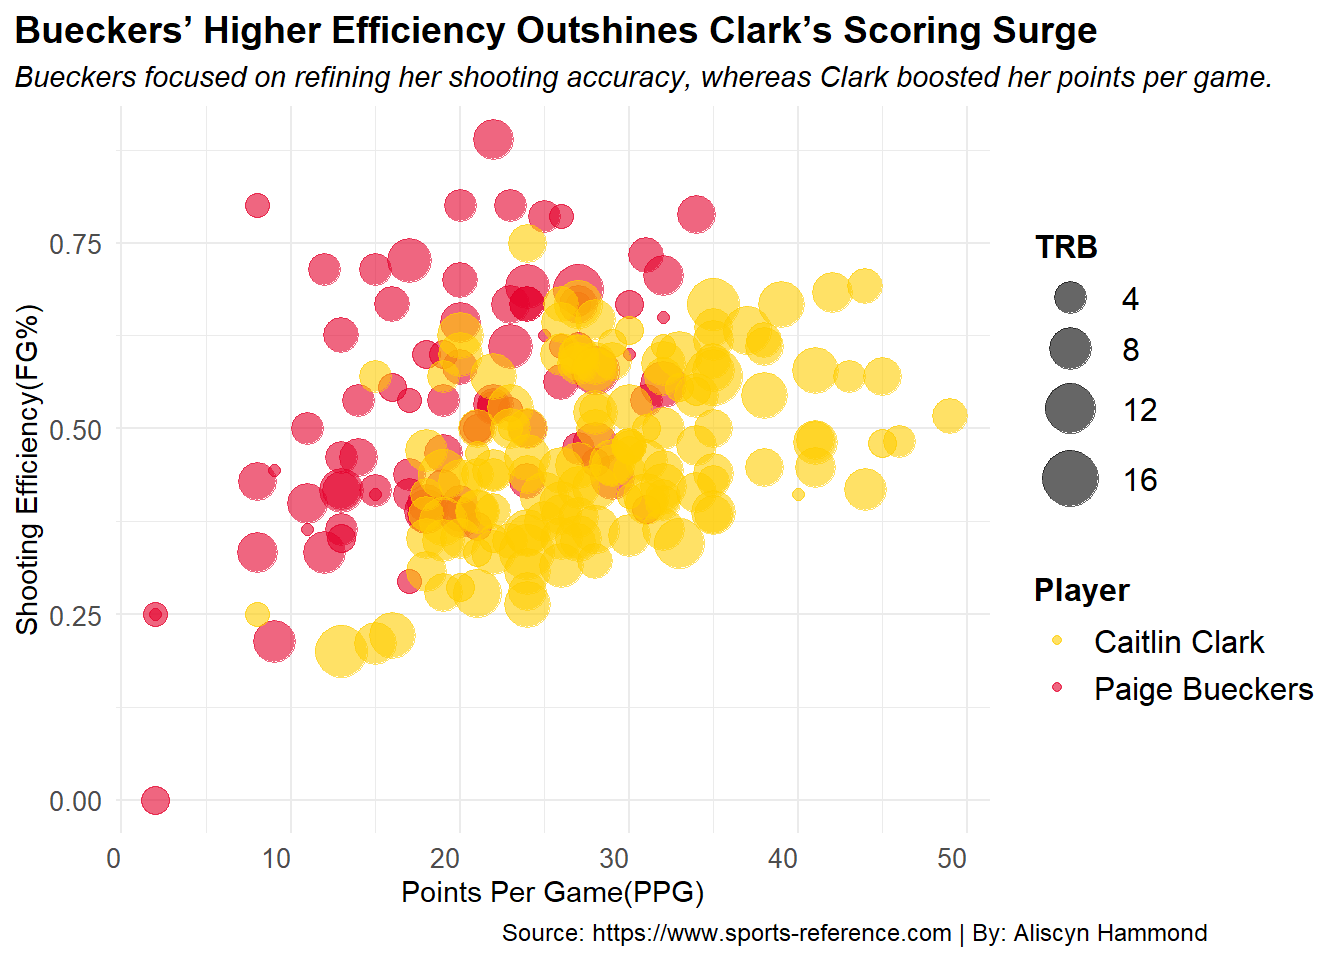
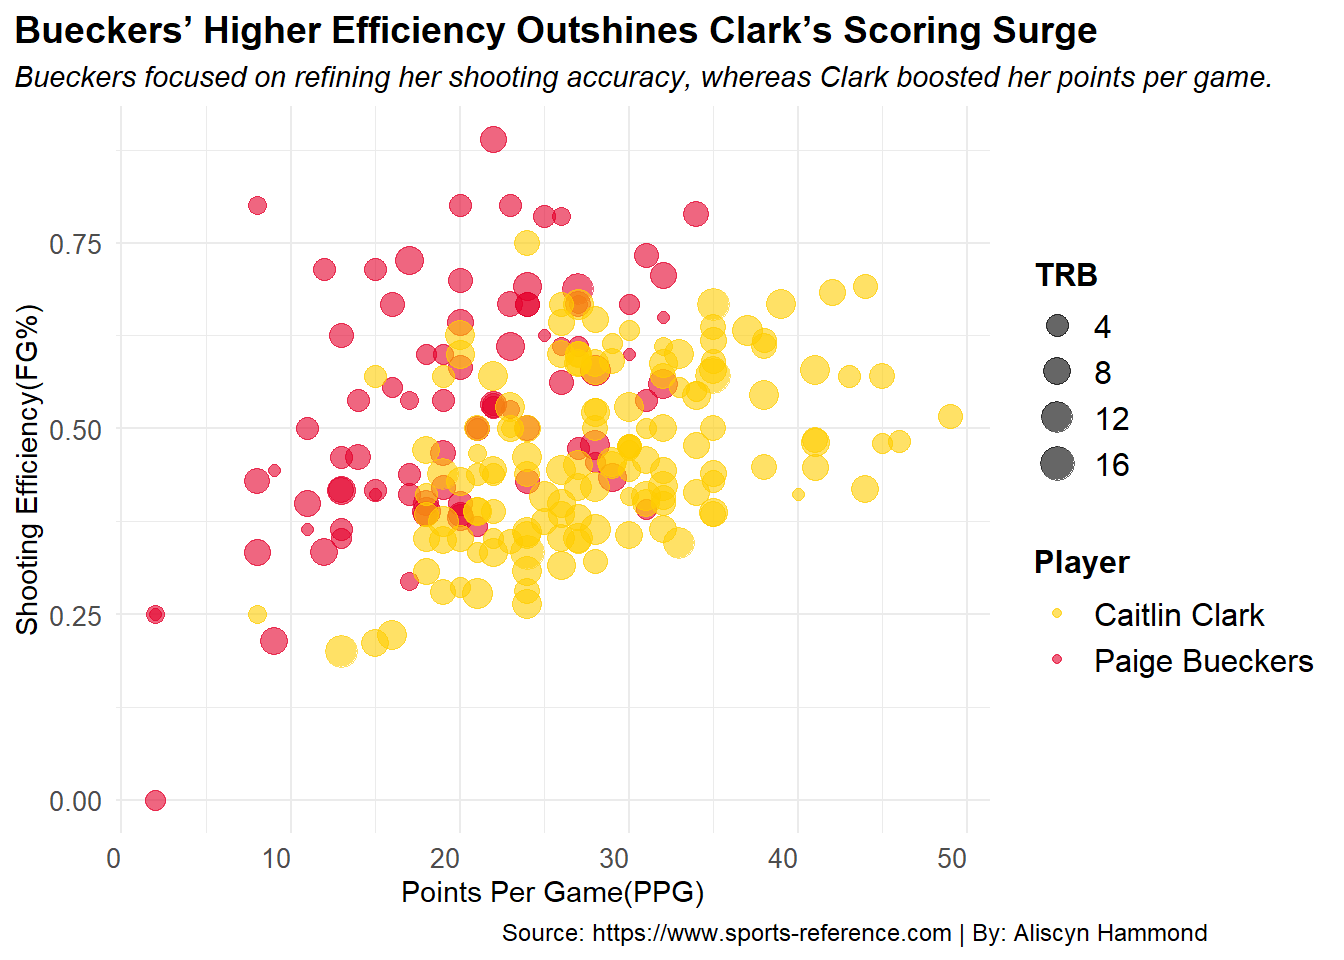
fixed the section header lines

diff --git a/posts/paige_caitlin_basketball/index.html b/posts/paige_caitlin_basketball/index.html
@@ -197,8 +197,8 @@ pre > code.sourceCode > span > a:first-child::before { text-decoration: underlin
 
 
 <p>In the world of women’s college basketball, few players have captured the attention of fans like Paige Bueckers and Caitlin Clark. Both players have become household names, known for their incredible skills and leadership on the court. From their early years in college to their rise as dominant forces, tracking the growth of Bueckers and Clark offers a fascinating glimpse into their evolution as athletes. I will take a closer look at how these two athletes have developed, comparing their freshman, sophomore, and junior seasons, and analyzing key statistics that highlight their growth. By examining their performance over the years, we’ll explore how they’ve refined their games, faced challenges, and emerged as two of the brightest stars in women’s basketball.</p>
-<section id="comparing-the-scoring-evolution-of-bueckers-and-clark" class="level2">
-<h2 class="anchored" data-anchor-id="comparing-the-scoring-evolution-of-bueckers-and-clark">Comparing The Scoring Evolution of Bueckers and Clark</h2>
+<section id="comparing-the-scoring-evolution-of-bueckers-and-clark" class="level3">
+<h3 class="anchored" data-anchor-id="comparing-the-scoring-evolution-of-bueckers-and-clark">Comparing The Scoring Evolution of Bueckers and Clark</h3>
 <div class="cell">
 <details class="code-fold">
 <summary>Code</summary>
@@ -250,8 +250,8 @@ pre > code.sourceCode > span > a:first-child::before { text-decoration: underlin
 </div>
 </div>
 </section>
-<section id="total-contributions-key-stat-comparisons-across-seasons" class="level2">
-<h2 class="anchored" data-anchor-id="total-contributions-key-stat-comparisons-across-seasons">Total Contributions: Key Stat Comparisons Across Seasons</h2>
+<section id="total-contributions-key-stat-comparisons-across-seasons" class="level3">
+<h3 class="anchored" data-anchor-id="total-contributions-key-stat-comparisons-across-seasons">Total Contributions: Key Stat Comparisons Across Seasons</h3>
 <div class="cell">
 <details class="code-fold">
 <summary>Code</summary>
@@ -280,7 +280,7 @@ pre > code.sourceCode > span > a:first-child::before { text-decoration: underlin
 <span id="cb2-23"><a href="#cb2-23" aria-hidden="true" tabindex="-1"></a>  <span class="fu">theme_minimal</span>()<span class="sc">+</span></span>
 <span id="cb2-24"><a href="#cb2-24" aria-hidden="true" tabindex="-1"></a>  <span class="fu">theme</span>(<span class="at">axis.text.x =</span><span class="fu">element_text</span>(<span class="at">angle=</span><span class="dv">45</span>,<span class="at">hjust=</span><span class="dv">1</span>),</span>
 <span id="cb2-25"><a href="#cb2-25" aria-hidden="true" tabindex="-1"></a>        <span class="at">plot.title =</span><span class="fu">element_text</span>(<span class="at">size=</span><span class="dv">15</span>,<span class="at">face=</span><span class="st">"bold"</span>),</span>
-<span id="cb2-26"><a href="#cb2-26" aria-hidden="true" tabindex="-1"></a>        <span class="at">plot.subtitle =</span><span class="fu">element_text</span>(<span class="at">size=</span><span class="dv">14</span>,<span class="at">face=</span><span class="st">"italic"</span>),</span>
+<span id="cb2-26"><a href="#cb2-26" aria-hidden="true" tabindex="-1"></a>        <span class="at">plot.subtitle =</span><span class="fu">element_text</span>(<span class="at">size=</span><span class="dv">13</span>,<span class="at">face=</span><span class="st">"italic"</span>),</span>
 <span id="cb2-27"><a href="#cb2-27" aria-hidden="true" tabindex="-1"></a>        <span class="at">axis.title.x =</span><span class="fu">element_text</span>(<span class="at">size=</span><span class="dv">14</span>),</span>
 <span id="cb2-28"><a href="#cb2-28" aria-hidden="true" tabindex="-1"></a>        <span class="at">axis.title.y =</span><span class="fu">element_text</span>(<span class="at">size=</span><span class="dv">14</span>),</span>
 <span id="cb2-29"><a href="#cb2-29" aria-hidden="true" tabindex="-1"></a>        <span class="at">axis.text =</span><span class="fu">element_text</span>(<span class="at">size=</span><span class="dv">12</span>),</span>
@@ -299,13 +299,15 @@ pre > code.sourceCode > span > a:first-child::before { text-decoration: underlin
 </div>
 </div>
 </div>
-<p>##Contribution of (blank)</p>
+</section>
+<section id="contribution-of-blank" class="level3">
+<h3 class="anchored" data-anchor-id="contribution-of-blank">Contribution of (blank)</h3>
 <div class="cell">
 <details class="code-fold">
 <summary>Code</summary>
 <div class="sourceCode cell-code" id="cb3"><pre class="sourceCode r code-with-copy"><code class="sourceCode r"><span id="cb3-1"><a href="#cb3-1" aria-hidden="true" tabindex="-1"></a><span class="fu">ggplot</span>(pc,<span class="fu">aes</span>(<span class="at">x=</span>PTS,<span class="at">y=</span>FG.,<span class="at">size=</span>TRB,<span class="at">color=</span>Player))<span class="sc">+</span></span>
 <span id="cb3-2"><a href="#cb3-2" aria-hidden="true" tabindex="-1"></a>  <span class="fu">geom_point</span>(<span class="at">alpha=</span>.<span class="dv">6</span>)<span class="sc">+</span></span>
-<span id="cb3-3"><a href="#cb3-3" aria-hidden="true" tabindex="-1"></a>  <span class="fu">scale_size_continuous</span>(<span class="at">range=</span><span class="fu">c</span>(<span class="dv">2</span>,<span class="dv">10</span>))<span class="sc">+</span></span>
+<span id="cb3-3"><a href="#cb3-3" aria-hidden="true" tabindex="-1"></a>  <span class="fu">scale_size_continuous</span>(<span class="at">range=</span><span class="fu">c</span>(<span class="dv">2</span>,<span class="dv">6</span>))<span class="sc">+</span></span>
 <span id="cb3-4"><a href="#cb3-4" aria-hidden="true" tabindex="-1"></a>  <span class="fu">labs</span>(</span>
 <span id="cb3-5"><a href="#cb3-5" aria-hidden="true" tabindex="-1"></a>    <span class="at">x=</span><span class="st">"Points Per Game(PPG)"</span>,</span>
 <span id="cb3-6"><a href="#cb3-6" aria-hidden="true" tabindex="-1"></a>    <span class="at">y=</span><span class="st">"Shooting Efficiency(FG%)"</span>,</span>

diff --git a/index.html b/index.html
@@ -210,7 +210,7 @@ window.Quarto = {
 
 <div class="quarto-listing quarto-listing-container-default" id="listing-listing">
 <div class="list quarto-listing-default">
-<div class="quarto-post image-right" data-index="0" data-categories="YmFza2V0YmFsbCx3b21lbiBzcG9ydHMsY29sbGVnZSBzcG9ydHM=" data-listing-date-sort="1733724000000" data-listing-file-modified-sort="1733548508368" data-listing-date-modified-sort="NaN" data-listing-reading-time-sort="5" data-listing-word-count-sort="966">
+<div class="quarto-post image-right" data-index="0" data-categories="YmFza2V0YmFsbCx3b21lbiBzcG9ydHMsY29sbGVnZSBzcG9ydHM=" data-listing-date-sort="1733724000000" data-listing-file-modified-sort="1733548703907" data-listing-date-modified-sort="NaN" data-listing-reading-time-sort="5" data-listing-word-count-sort="967">
 <div class="thumbnail">
 <p><a href="./posts/paige_caitlin_basketball/index.html" class="no-external"></a></p><a href="./posts/paige_caitlin_basketball/index.html" class="no-external">
 <p><img loading="lazy" src="./posts/paige_caitlin_basketball/image.png" class="thumbnail-image"></p>
